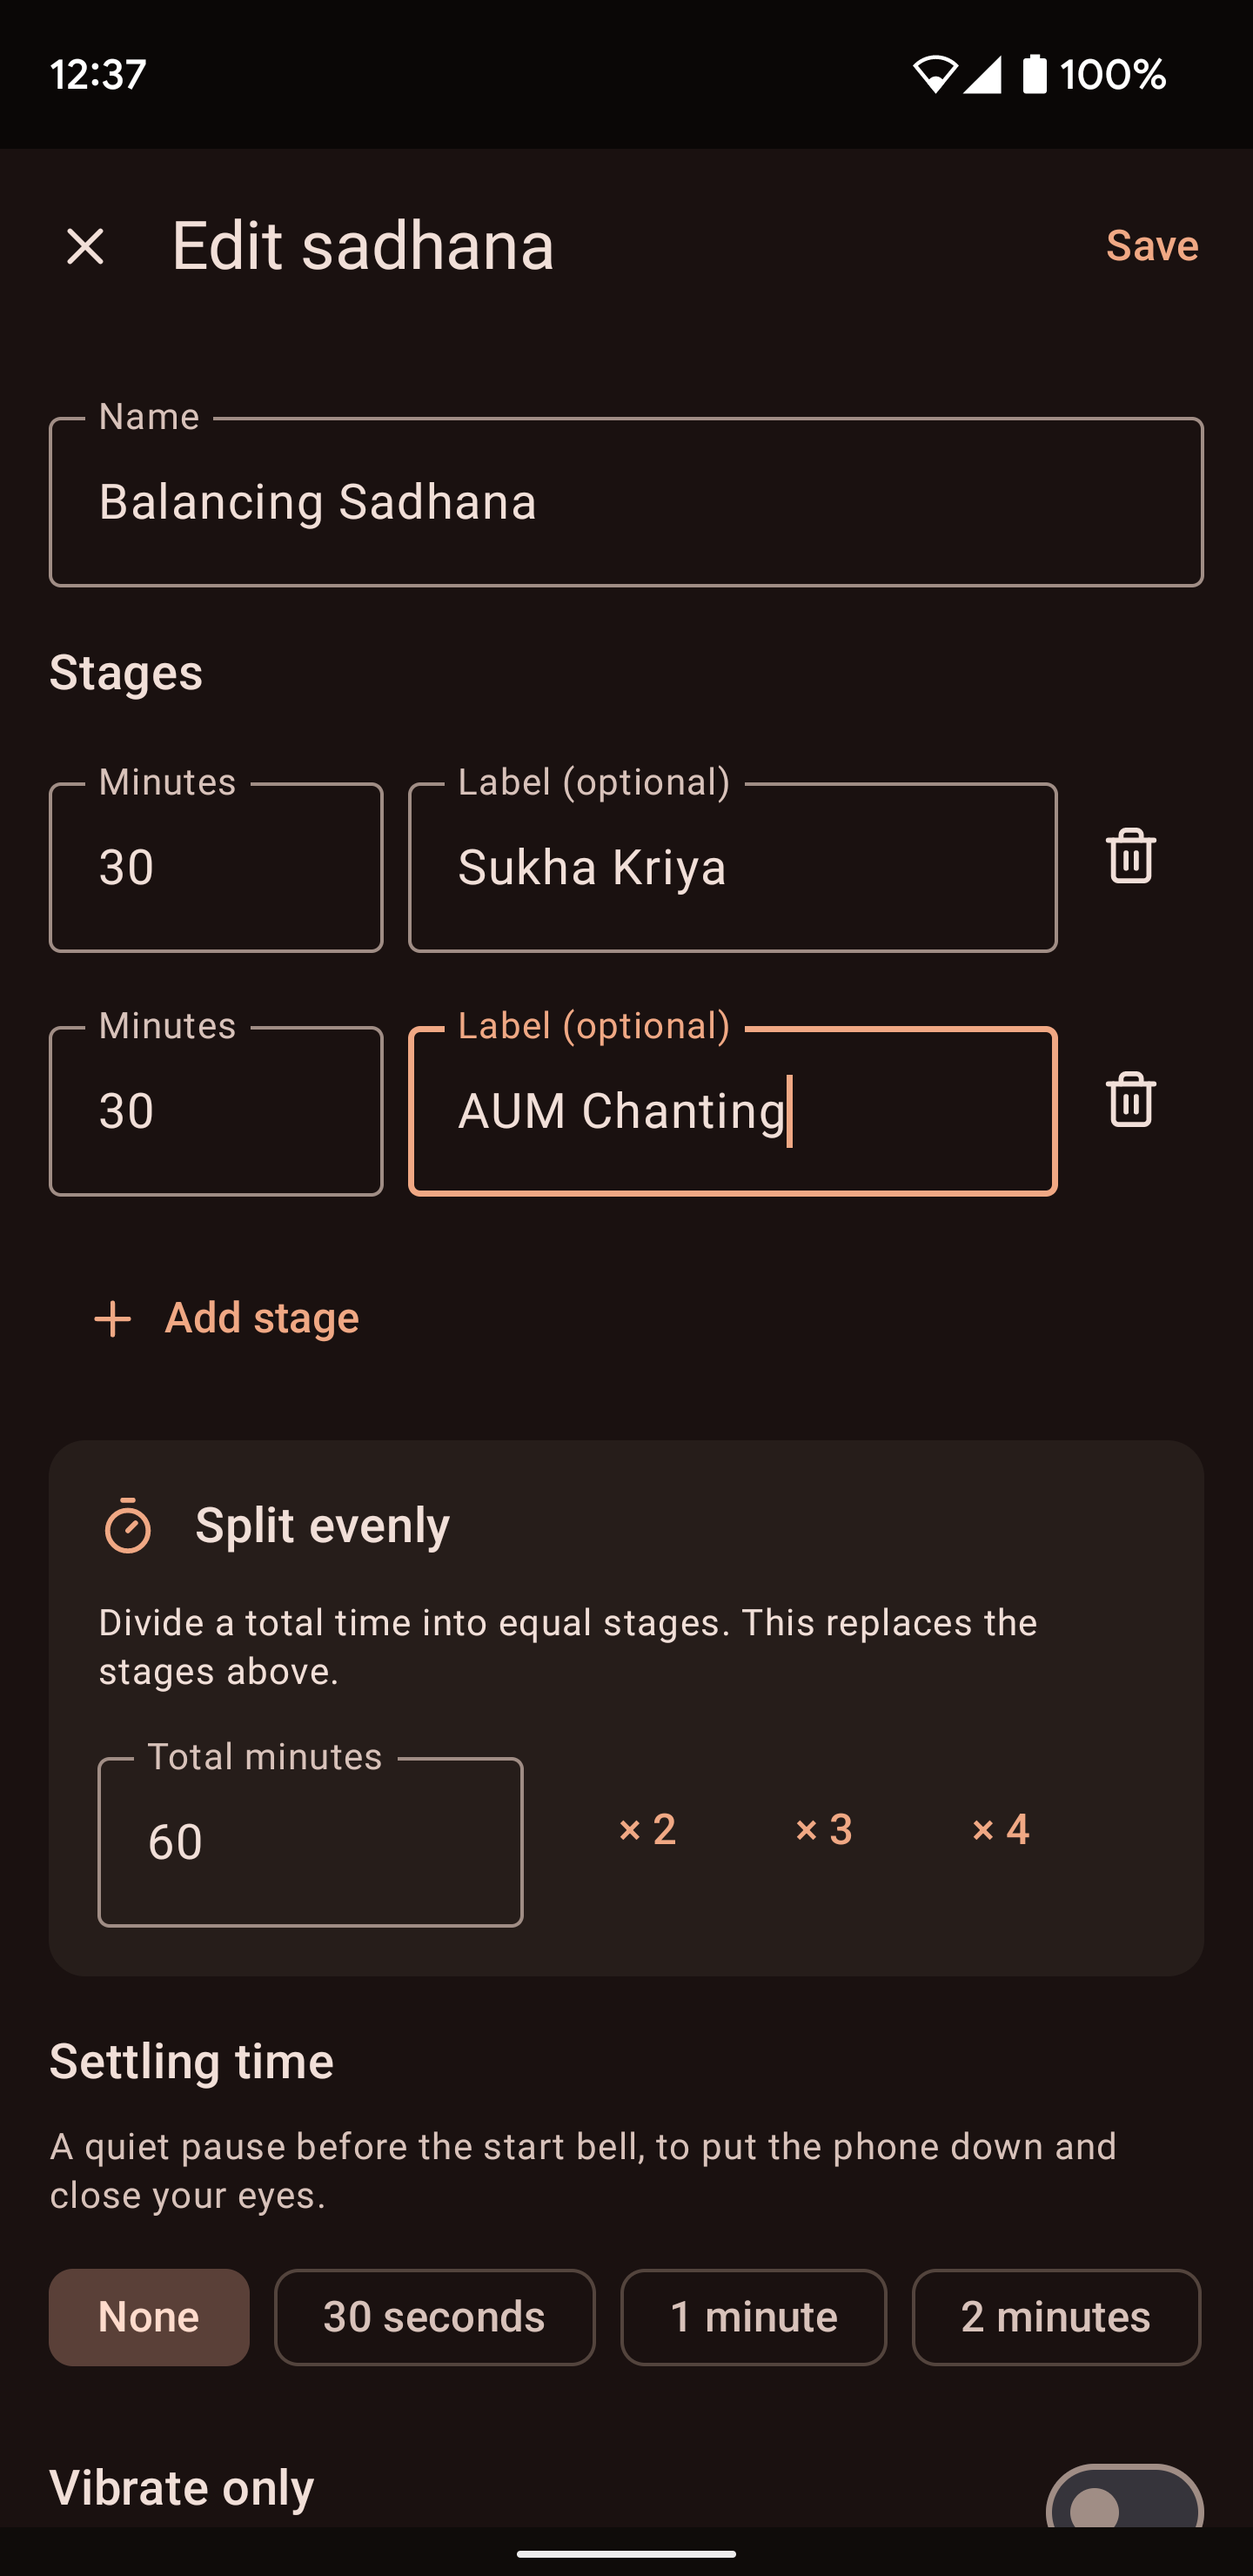
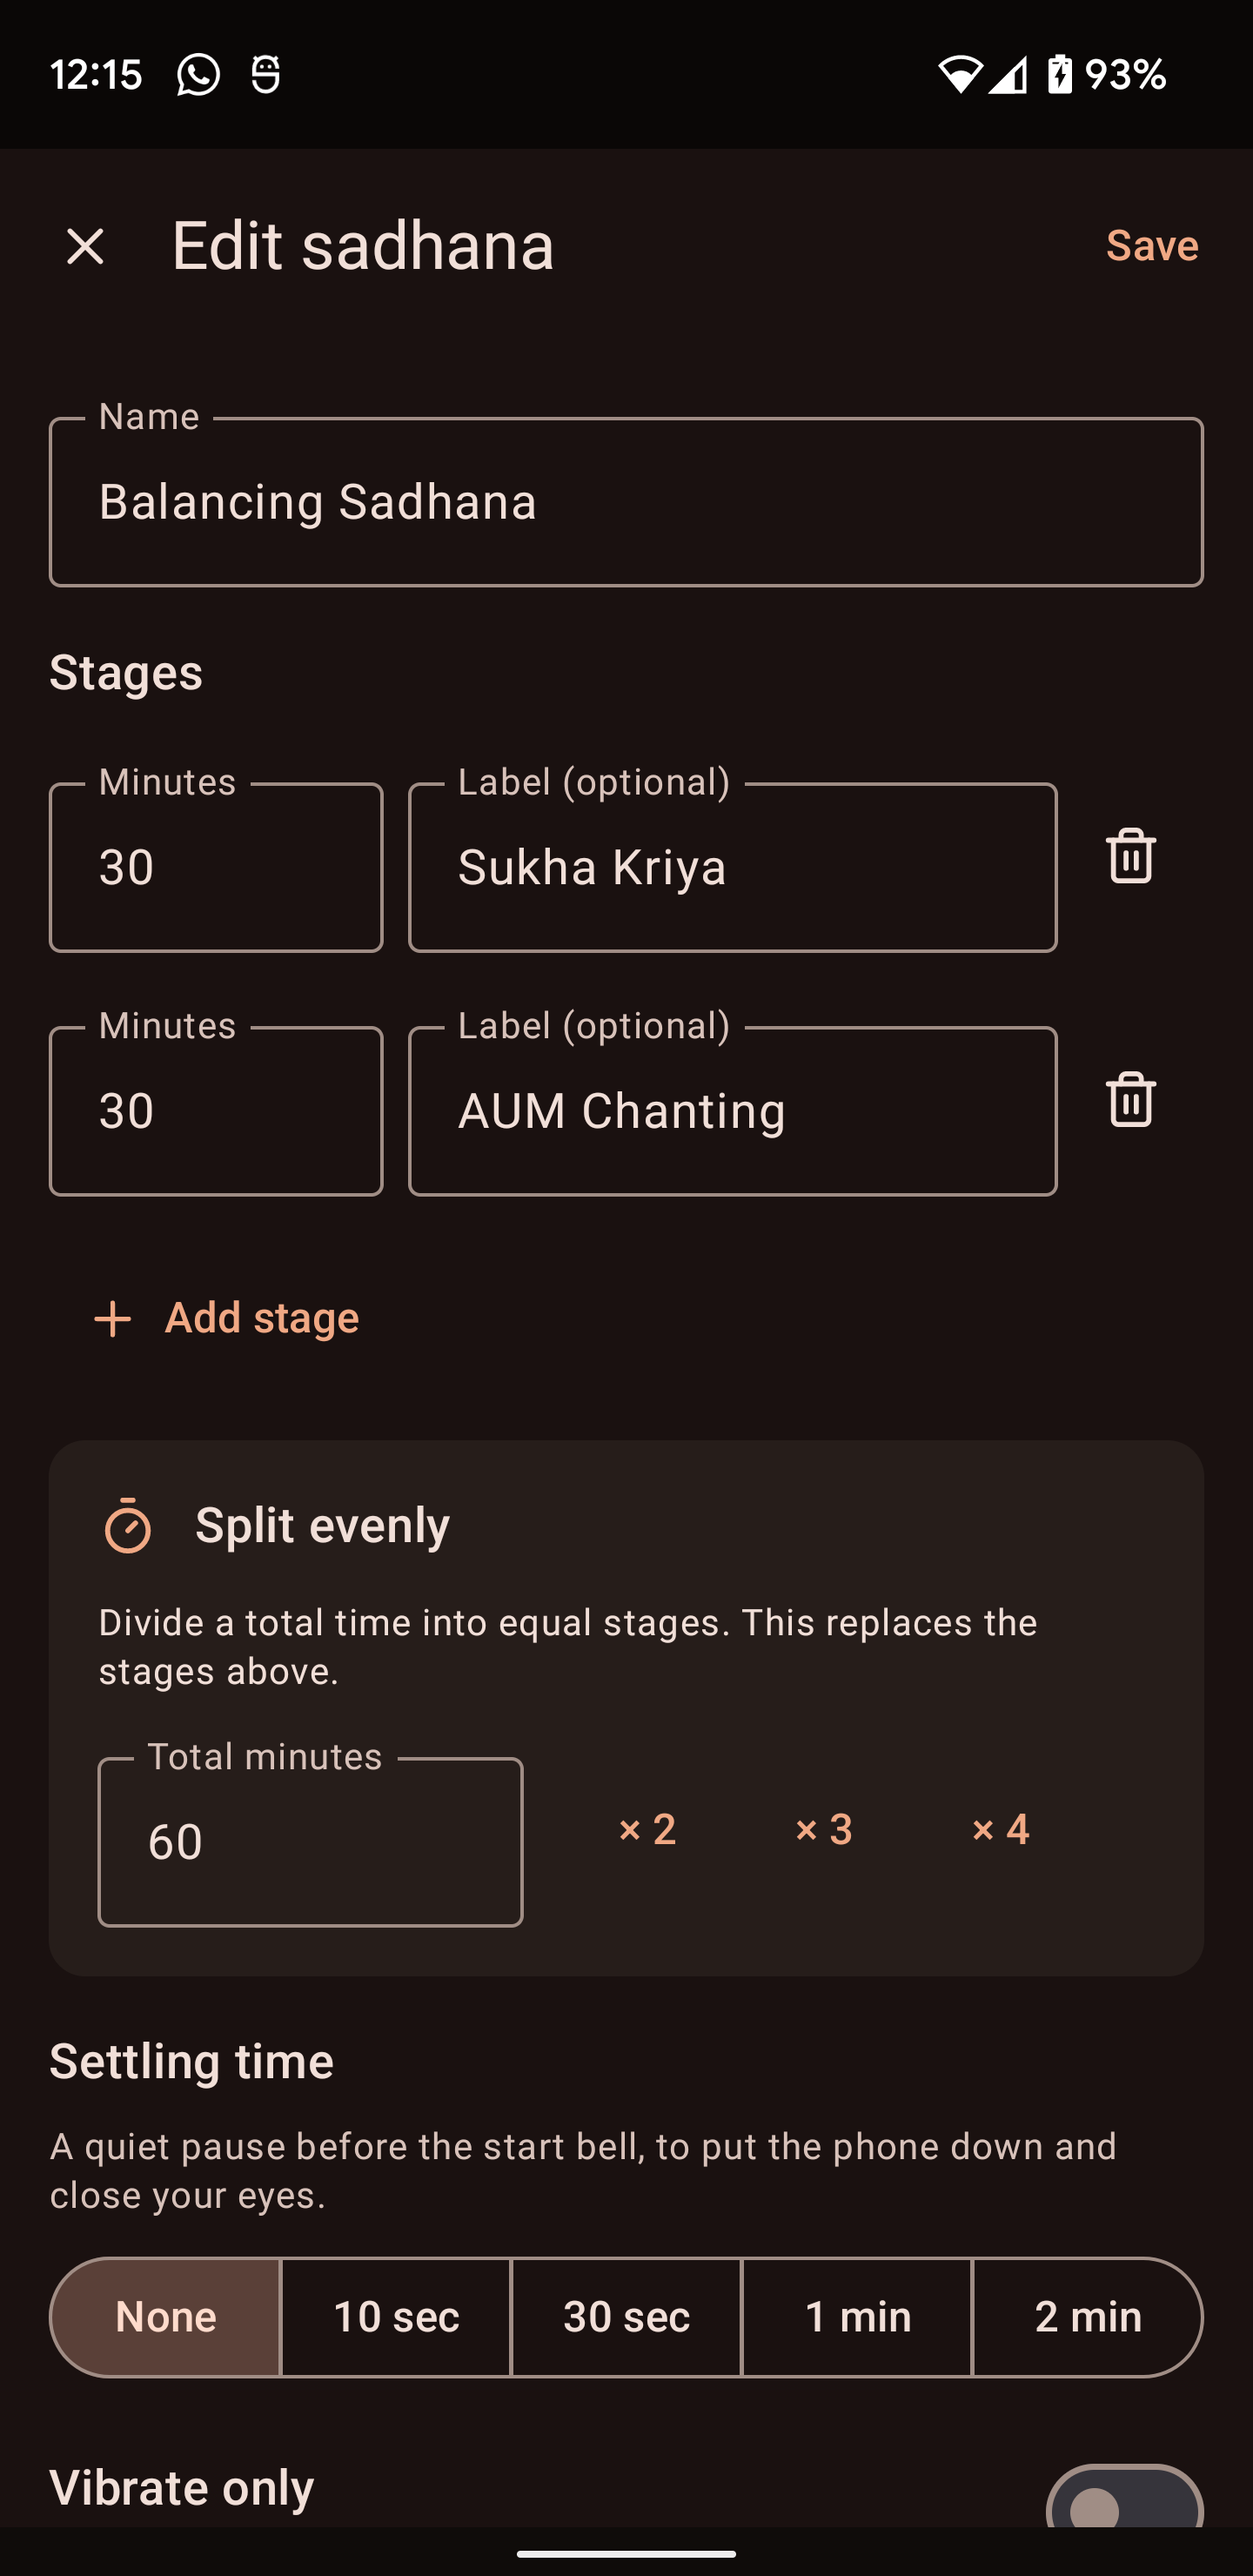
Add Log screenshots to the README and the store listing
Three new screenshots show the Log tab, the entry form and Manage practices.
The sadhana editor screenshot is retaken, because the settling time choices changed.

diff --git a/README.md b/README.md
@@ -8,6 +8,11 @@ Sati is an Android app that rings a bell now and then during your waking hours. 
   <img src="fastlane/metadata/android/en-US/images/phoneScreenshots/6.png" width="180" alt="The Sadhana tab: saved sadhanas with Start buttons, and the sadhana bell settings">
   <img src="fastlane/metadata/android/en-US/images/phoneScreenshots/8.png" width="180" alt="The sadhana editor: a name, two 30-minute stages with labels, and a settling time">
 </p>
+<p>
+  <img src="fastlane/metadata/android/en-US/images/phoneScreenshots/9.png" width="180" alt="The Log tab: a summary card with 3 of 17 done, and practices in short rows with their progress">
+  <img src="fastlane/metadata/android/en-US/images/phoneScreenshots/10.png" width="180" alt="Logging a practice: minutes and seconds fields, focus buttons from 1 to 10, and a Not done button">
+  <img src="fastlane/metadata/android/en-US/images/phoneScreenshots/11.png" width="180" alt="Manage practices: each practice with its measure, target and repeat schedule, and a handle to drag it">
+</p>
 
 ## Features
 
